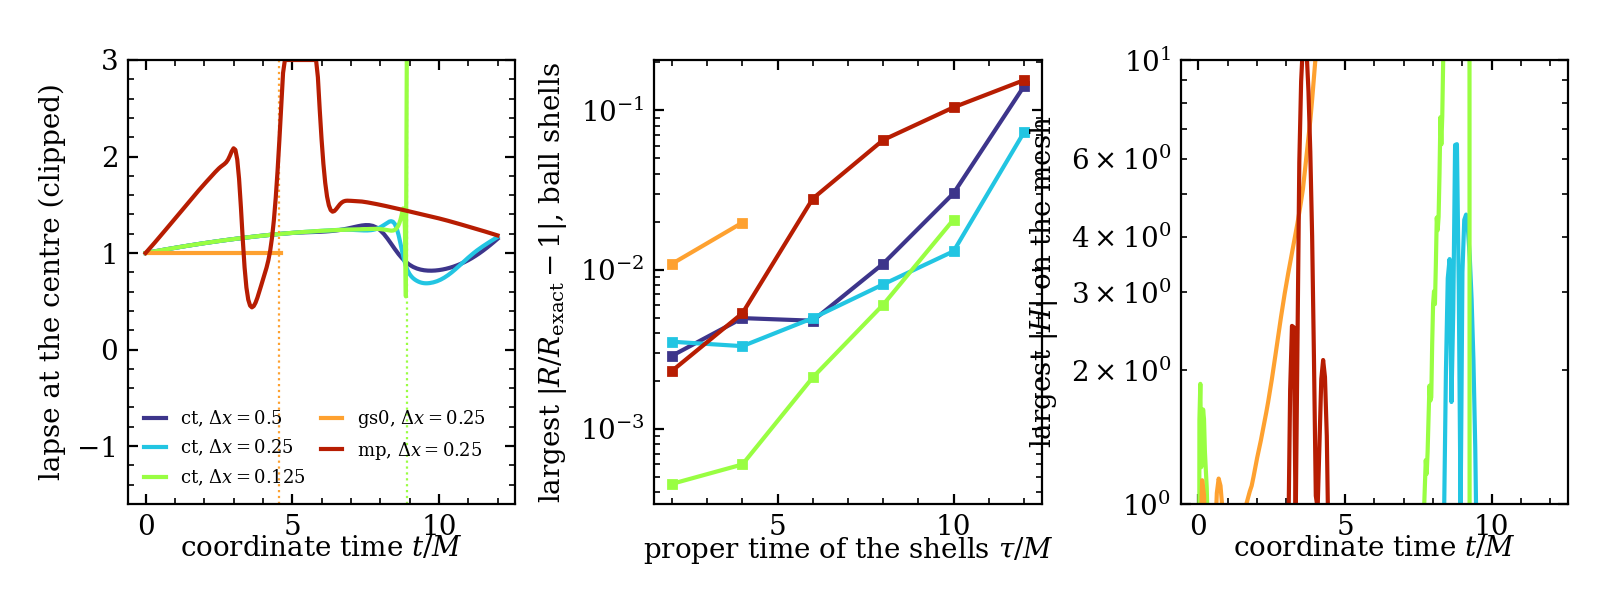
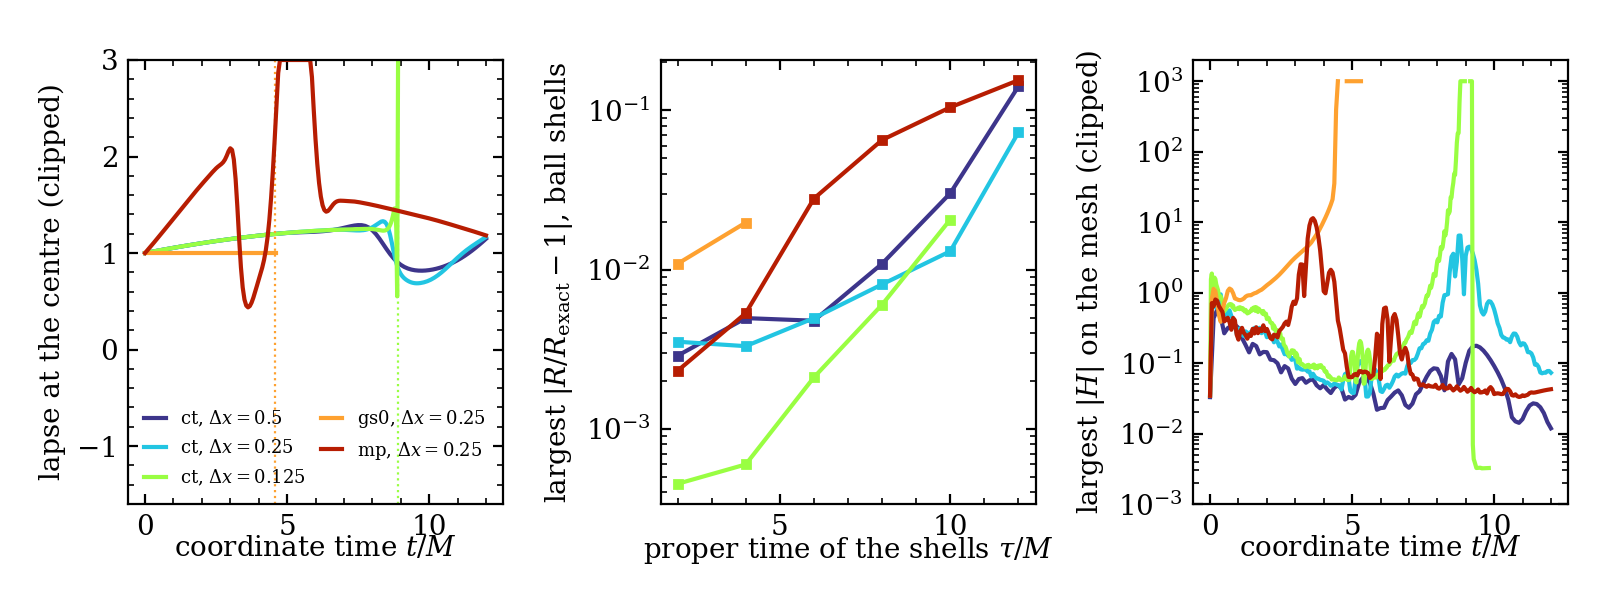
verify wave 2: T2d confirmed (production deposit 26-39x below CIC at dx=M/4); T3 at dx=M/8 breaks down at the lapse front (|H| grows with resolution); t3 analysis no longer crashes
Runs: core-20261115-153052-b17f40d, -153429-cdc0f54, -153539-9702c09

Claude-Session: https://claude.ai/code/session_01VD79cUYemmpt27M8dtYPfW

diff --git a/tracks/core/verify/JOURNAL.md b/tracks/core/verify/JOURNAL.md
@@ -265,3 +265,56 @@ shells about 8 M, before the turnaround at 9.54 M). (d) `bound-mp-n160` (1+log):
 lapse front reaches the centre near t = 3 M (central lapse 0.72 at 4 M after 1.71 at
 2 M): T3 (iv) confirmed in timing; its core errors at least twice those of
 `bound-ct-n160` (prediction (iv)).
+
+Correction: the heading time of the previous entry ("15:40Z") is wrong; it was written at
+15:30Z, before the analysis run below.
+
+## 15:37Z Outcomes of the T2d/T3 re-analysis
+
+Runs: `core-20261115-153052-b17f40d` (first pass), `core-20261115-153429-cdc0f54`
+(figure layout), `core-20261115-153539-9702c09` (final figures; numbers identical in all
+three), script `idcheck/t2d_t3.py`, numbers `scratch/core/<run>/t2d_t3_numbers.json`.
+Figures `figs/id_t2d_interior.png`, `figs/id_t3_bound.png` (both looked at; the first
+version of each had legends over the data and an unframed |H| panel, corrected in the
+later runs).
+
+(a) T2d CONFIRMED. Interior rms of H (cells further than four cells plus two edge widths
+inside the outermost ball particle), dx = 1, 1/2, 1/4 M:
+- ct-edge2 (CIC, Hermite): t = 8 M 3.94e-4, 7.53e-5, 2.14e-4; t = 10 M 3.61e-4,
+  1.77e-4, 3.20e-4 (not converging, larger at 1/4 than at 1/2 M);
+- ct-edge2-ext (CIC, sources extrapolated): 4.00e-4, 5.30e-5, 2.20e-4; 3.62e-4, 1.86e-4,
+  3.27e-4 (the extrapolation does not change the late residual);
+- ct-edge2-prod (cubic cloud, compensation, spline metric, sources extrapolated):
+  dx = 1/2, 1/4 M: 2.54e-5, 5.51e-6 at 8 M; 2.62e-5, 1.24e-5 at 10 M.
+At dx = 1/4 M the production deposit is 39 and 26 times below ct-edge2 at 8 and 10 M,
+below the 5e-5 bound, and below its own dx = 1/2 M value (ratio 4.6 at 8 M, 2.1 at
+10 M). The late interior residual of ct-edge2 is therefore the deposit (cloud-in-cell
+of a lattice that has drifted against the mesh), as hypothesized. Equal to the lead's
+numbers to the printed digits (same code).
+(b) CONFIRMED: the boundary layer (r > 0.7 of the half-width) carries rms H 3.71e-4 to
+3.74e-4 at 10 M in every smooth-edge run, whatever the deposit; it, not the ball,
+dominates the mesh mean of |H| quoted in the lead entry (2.3e-4). Item 4 of
+JOURNAL-id.md entry 8 (outer boundary condition for K_ij ~ r^(-3/2)) stays open.
+(c) T3 at dx = 1/8 M (`t3-bound-ct-n320`, core-20261115-042001-abc5fe2): the run BREAKS
+DOWN when the lapse front reaches the centre. Central lapse a(tau_c) to 1.25 until
+t = 8 M, 1.462 at 8.78 M, 0.551 at 8.875 M, non-finite from 8.906 M; all 211062
+particles removed as non-finite by 9.4 M; the code goes on to t = 12 M and exits with
+status 0 (OPEN.md item 11). The largest |H| on the mesh at the front grows with
+resolution: 0.135 (dx = 1/2 M), 6.44 (1/4 M), 184 at 8.75 M and infinite at 9 M (1/8 M)
+(cstat history). A front that steepens without bound as the mesh is refined is the
+signature of a gauge shock [JUDGEMENT; no run here separates it from an instability of
+the formulation]. Before the breakdown the finest run is the most accurate: shells turn
+around at a_max 1.2472 (core), 1.2485, 1.2509, 1.2505 (exact 1.2500) at tau 9.40, 9.50,
+9.56, 9.59 M (exact 9.542 M); largest |eps| at tau = 2 M 4.4e-4 against 3.5e-3 at
+dx = 1/4 M. T3 as predicted (run reaching t = 12 M with |eps| < 1e-2) is REFUTED at
+dx = 1/8 M; at dx = 1/2 and 1/4 M the earlier outcome stands (turnaround within 0.5
+per cent at 1/4 M, errors 0.11 (core) over the whole run, no convergence after the front).
+(d) T3 (iv) CONFIRMED: with 1+log (`t3-bound-mp-n160`) the central lapse peaks at 2.08
+near t = 3 M and falls to 0.44 at 3.6 M; core |eps| at tau = 8 M 6.5e-2 against 4.85e-3
+with the conformal-time lapse (13 times), 0.58 against 0.11 over the run.
+(e) `t3-bound-gs0-n160` (lapse 1, shift 0, card, dx = 1/4 M): unstable as on processors,
+first particle loss at 4.56 M (processor run at 1/2 M: not-a-number at 4.9 M); the
+analysis now records it (3 dumps skipped: no ball particle left) instead of crashing.
+The crash of `test2_evolution.py --prefix t3` is thus worked around in
+`idcheck/t2d_t3.py`; `analysis/id/test2_evolution.py` itself is unchanged (not this
+package's file): request to the lead in README.md.
